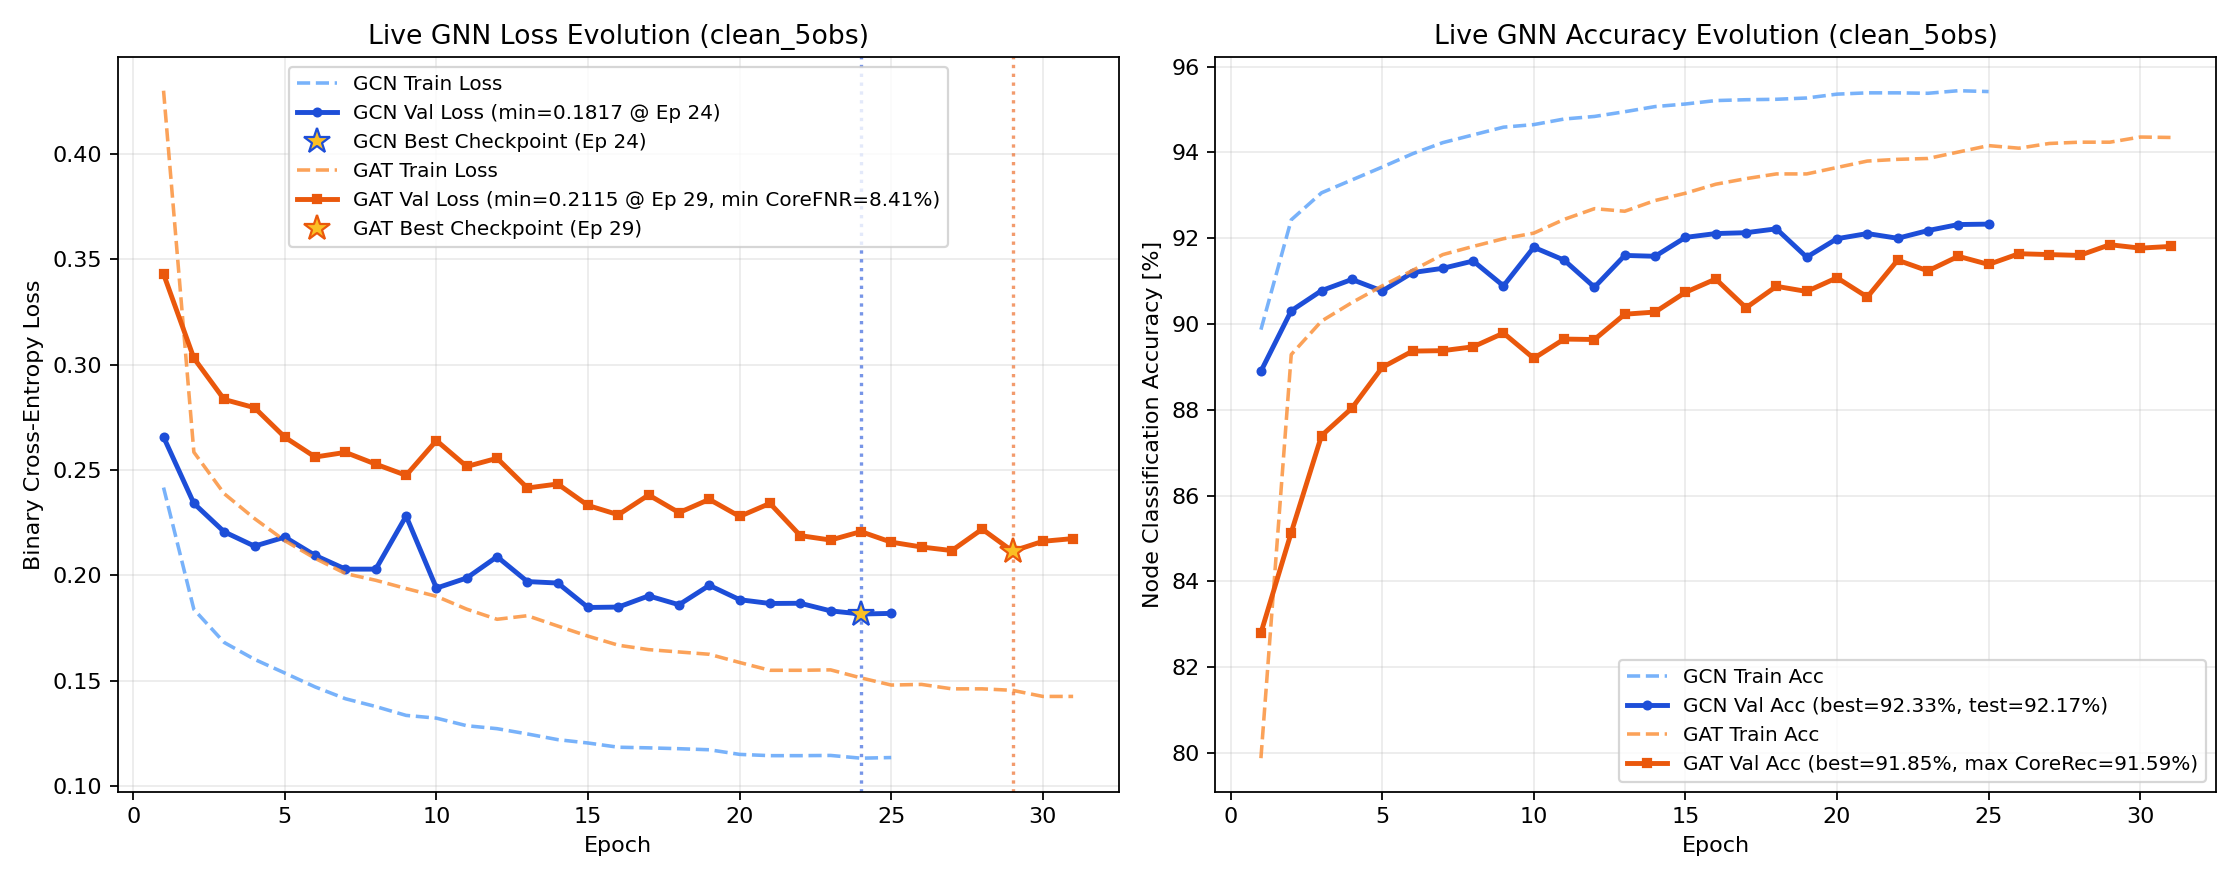
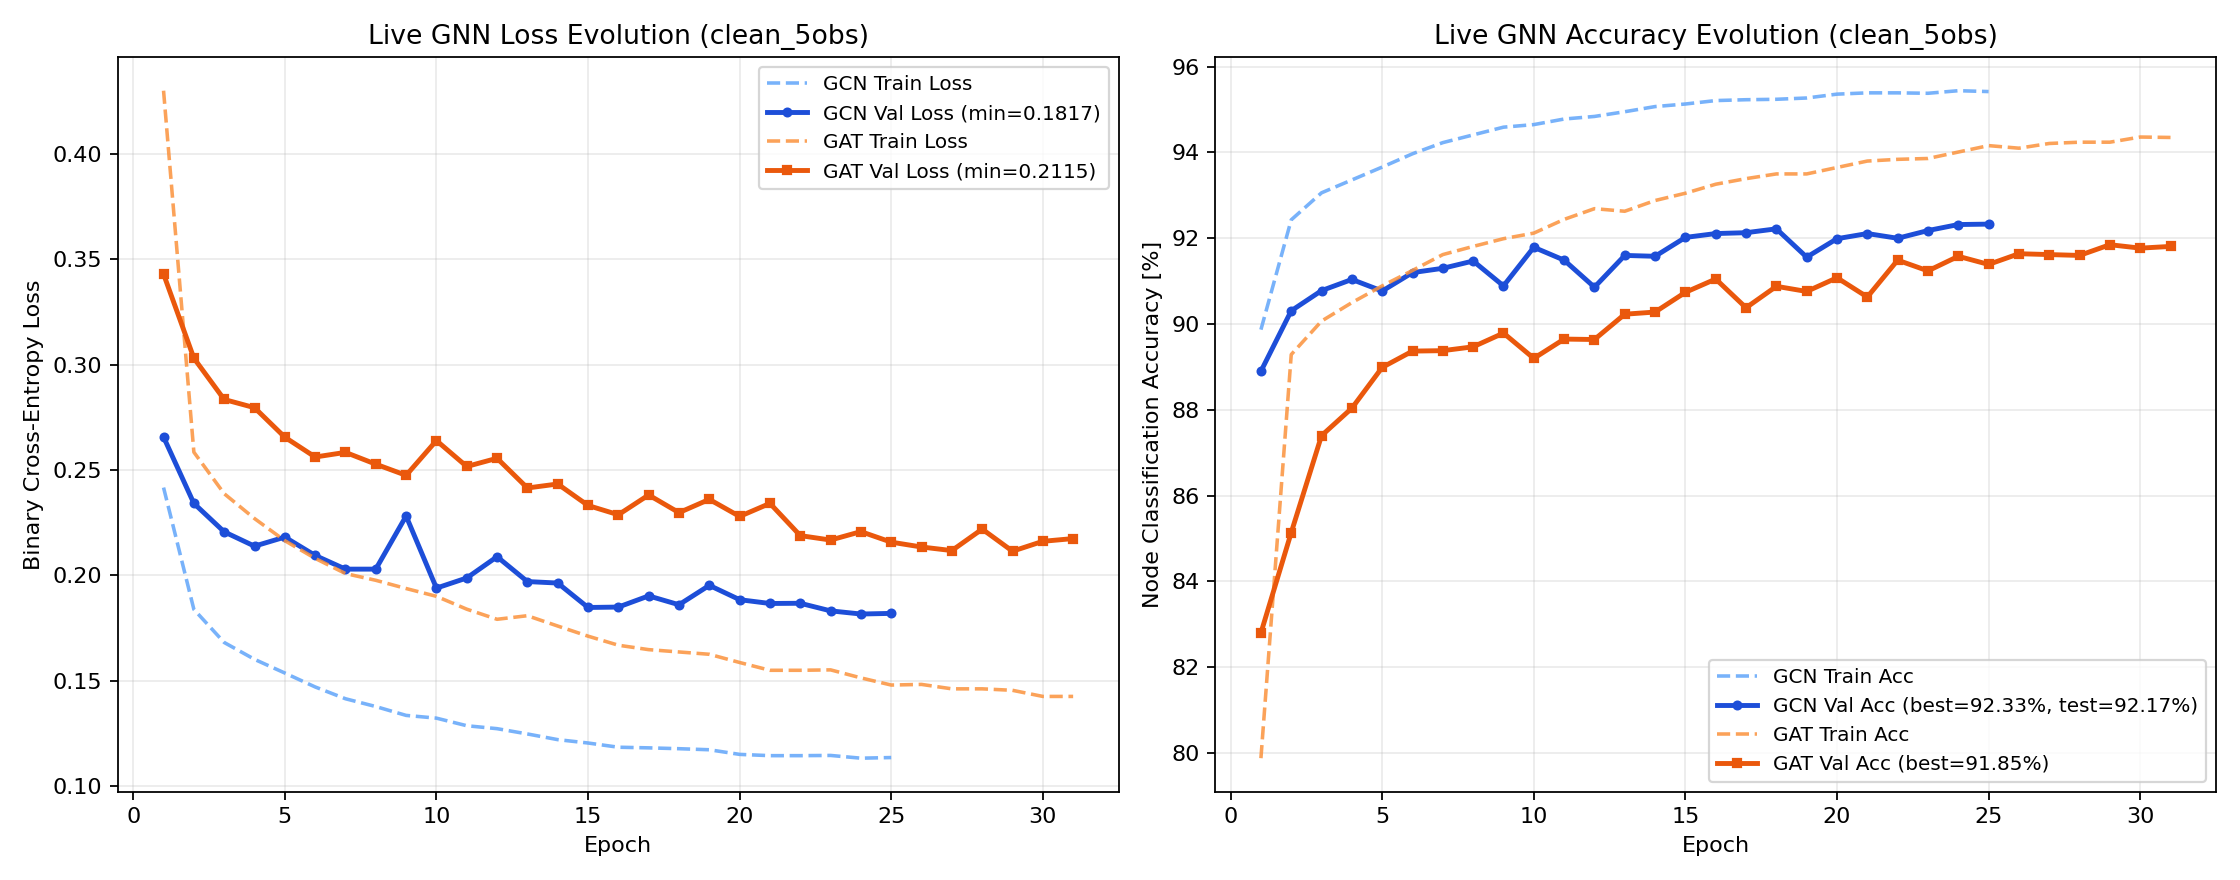
Update Study 2 live status and figures (2026-11-13 14:43)

diff --git a/LIVE_STATUS.md b/LIVE_STATUS.md
@@ -1,16 +1,15 @@
 # Live Pipeline Status on Jed
 
 ```text
-[2026-11-13 14:37:47] Study 2 Pipeline Status on Jed
+[2026-11-13 14:43:40] Study 2 Pipeline Status on Jed
 - Step 1 (Plummer ICs): 81 / 81 ready
 - Step 2 (SWIFT Runs): 81 / 81 completed (101 snapshots)
 - Step 3 (Observables): Labels=81/81 | Clean=81/81 | GaiaNoisy=81/81
 - Step 4 (5D Graphs): Clean=81/81 | GaiaNoisy=81/81
 - Step 5/6 Live GNN Training Progress:
-  * clean_5obs/training_metrics_gat_clean.log: Ep 031 | Train 0.1426 (94.35%) | Val 0.2175 (91.81%, Best=91.85%) | CoreFNR: 11.79% (min=8.41%) | Test=In progress
+  * clean_5obs/training_metrics_gat_clean.log: Ep 031 | Train 0.1426 (94.35%) | Val 0.2175 (91.81%, Best=91.85%) | Test=In progress
   * clean_5obs/training_metrics_gcn_clean.log: Ep 025 | Train 0.1136 (95.42%) | Val 0.1820 (92.33%, Best=92.33%) | Test=92.17%
   * legacy/clean_5obs_static_5rot/training_metrics_gcn_clean.log: Ep 025 | Train 0.1136 (95.42%) | Val 0.1820 (92.33%, Best=92.33%) | Test=92.17%
-- Saved Model Checkpoints (.pth): 8 mirrored in GNN-jed/trained_models/study2/weights/
 
 SLURM Queue:
 JOBID  PARTITION                   NAME   ST       TIME  NODES NODELIST(REASON)
@@ -20,29 +19,16 @@ JOBID  PARTITION                   NAME   ST       TIME  NODES NODELIST(REASON)
 41146835_[0-4%   academic      Study2_Step6_4Obs   PD       0:00      2 (Dependency)
       41185010   academic Study2V2_Step4_BuildGr   PD       0:00      1 (Dependency)
 41185009_[0-80   academic Study2V2_Step3_Extract   PD       0:00      1 (Dependency)
-      41146834   academic   Study2_Step5_Train81    R   23:52:19      2 jst[317,320]
+      41146834   academic   Study2_Step5_Train81    R   23:58:36      2 jst[317,320]
 ```
 
 ## Live Neural Network Training Metrics
 
-| Experiment | Architecture | Latest Epoch | Train Loss | Train Acc | Val Loss | Val Acc | Best Val Acc | Core FNR | Test Acc | Test F1 |
-| :--- | :---: | :---: | :---: | :---: | :---: | :---: | :---: | :---: | :---: | :---: |
-| `clean_5obs` | **GAT** | 31 | 0.1426 | 94.35% | 0.2175 | 91.81% | **91.85%** | 8.41% (val min) | **In progress** | - |
-| `clean_5obs` | **GCN** | 25 | 0.1136 | 95.42% | 0.1820 | 92.33% | **92.33%** | - | **92.17%** | 0.8886 |
-| `clean_5obs_static_5rot` | **GCN** | 25 | 0.1136 | 95.42% | 0.1820 | 92.33% | **92.33%** | - | **92.17%** | 0.8886 |
-
-## Saved Model Weights (`.pth` Checkpoints)
-
-| Checkpoint | Size | Experiment Path | Central Archive Mirror |
-| :--- | :---: | :--- | :--- |
-| `best_gat_clean.pth` | 361.2 KB | `GNN-jed/trained_models/study2/clean_5obs/best_gat_clean.pth` | `GNN-jed/trained_models/study2/weights/best_gat_clean.pth` |
-| `best_gat_clean_ep18_backup.pth` | 361.2 KB | `GNN-jed/trained_models/study2/clean_5obs/best_gat_clean_ep18_backup.pth` | `GNN-jed/trained_models/study2/weights/best_gat_clean_ep18_backup.pth` |
-| `best_gcn_clean.pth` | 120.0 KB | `GNN-jed/trained_models/study2/clean_5obs/best_gcn_clean.pth` | `GNN-jed/trained_models/study2/weights/best_gcn_clean.pth` |
-| `best_gat_clean_ep18_backup.pth` | 361.2 KB | `GNN-jed/trained_models/study2/legacy/clean_5obs_static_5rot/best_gat_clean_ep18_backup.pth` | `GNN-jed/trained_models/study2/weights/best_gat_clean_ep18_backup.pth` |
-| `best_gcn_clean.pth` | 120.0 KB | `GNN-jed/trained_models/study2/legacy/clean_5obs_static_5rot/best_gcn_clean.pth` | `GNN-jed/trained_models/study2/weights/best_gcn_clean.pth` |
-| `best_gat_clean.pth` | 361.2 KB | `GNN-jed/trained_models/study2/legacy/weights/best_gat_clean.pth` | `GNN-jed/trained_models/study2/weights/best_gat_clean.pth` |
-| `best_gat_clean_ep18_backup.pth` | 361.2 KB | `GNN-jed/trained_models/study2/legacy/weights/best_gat_clean_ep18_backup.pth` | `GNN-jed/trained_models/study2/weights/best_gat_clean_ep18_backup.pth` |
-| `best_gcn_clean.pth` | 120.0 KB | `GNN-jed/trained_models/study2/legacy/weights/best_gcn_clean.pth` | `GNN-jed/trained_models/study2/weights/best_gcn_clean.pth` |
+| Experiment | Architecture | Latest Epoch | Train Loss | Train Acc | Val Loss | Val Acc | Best Val Acc | Test Acc | Test F1 |
+| :--- | :---: | :---: | :---: | :---: | :---: | :---: | :---: | :---: | :---: |
+| `clean_5obs` | **GAT** | 31 | 0.1426 | 94.35% | 0.2175 | 91.81% | **91.85%** | **In progress** | - |
+| `clean_5obs` | **GCN** | 25 | 0.1136 | 95.42% | 0.1820 | 92.33% | **92.33%** | **92.17%** | 0.8886 |
+| `clean_5obs_static_5rot` | **GCN** | 25 | 0.1136 | 95.42% | 0.1820 | 92.33% | **92.33%** | **92.17%** | 0.8886 |
 
 ## Real-Time GNN Learning Curves (Loss & Accuracy Evolution)
 
